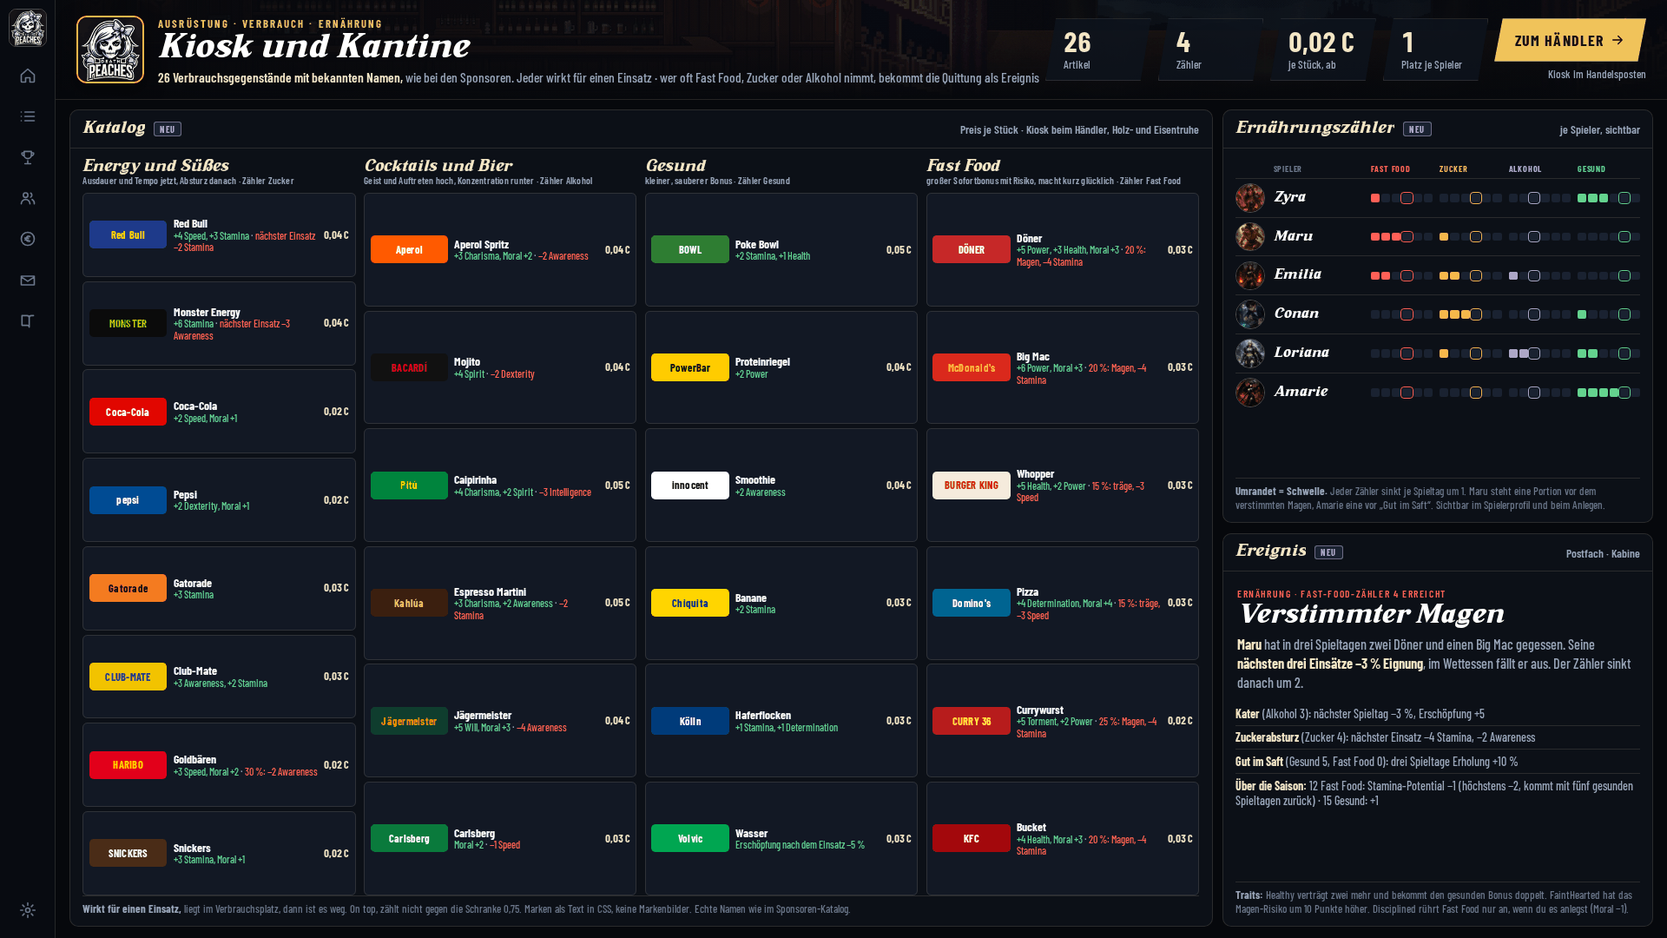
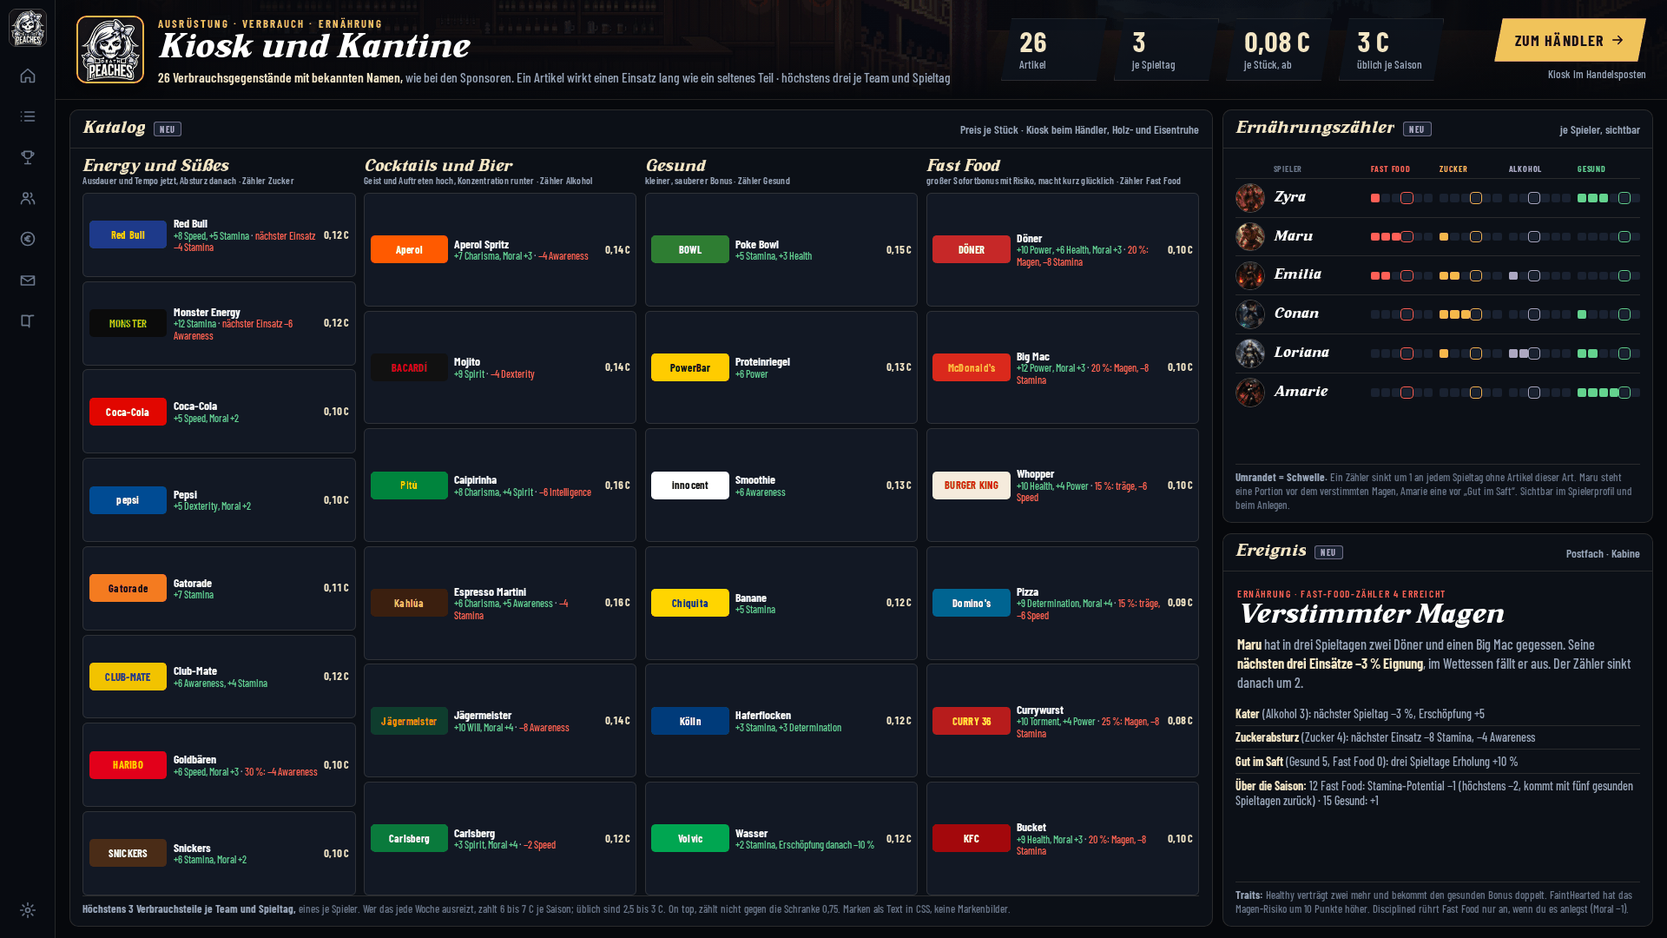
Mockups Runde 14: Verbrauch neu kalibriert (teurer, staerker), hoechstens 3 je Team und Spieltag, Zaehler-Abbau geprueft (#1691)
Claude-Session: https://claude.ai/code/session_01UYLNtXkprKr1XK4c3X2xQq

diff --git a/public/mockups/zwischen-den-spieltagen-22-11.html b/public/mockups/zwischen-den-spieltagen-22-11.html
@@ -878,23 +878,23 @@ function bauplan(){
 /* ======================= RUNDE 13 · VERBRAUCH MIT MARKEN, ERNAEHRUNG ======================= */
 /* [Logo-Text, Hintergrund, Schrift, Produkt, Wirkung, Nebenwirkung, Preis] */
 var VB=[["Energy und Süßes","Ausdauer und Tempo jetzt, Absturz danach · Zähler Zucker",[
-  ["Red Bull","#1e3a8a","#ffd200","Red Bull","+4 Speed, +3 Stamina","nächster Einsatz −2 Stamina","0,04"],["MONSTER","#0b0b0b","#7ed321","Monster Energy","+6 Stamina","nächster Einsatz −3 Awareness","0,04"],["Coca-Cola","#e10600","#fff","Coca-Cola","+2 Speed, Moral +1","–","0,02"],["pepsi","#004b93","#fff","Pepsi","+2 Dexterity, Moral +1","–","0,02"],["Gatorade","#f47b20","#111","Gatorade","+3 Stamina","–","0,03"],["CLUB-MATE","#f2c300","#1c3f94","Club-Mate","+3 Awareness, +2 Stamina","–","0,03"],["HARIBO","#e2001a","#ffd500","Goldbären","+3 Speed, Moral +2","30 %: −2 Awareness","0,02"],["SNICKERS","#4a2c17","#fff","Snickers","+3 Stamina, Moral +1","–","0,02"]]],
+  ["Red Bull","#1e3a8a","#ffd200","Red Bull","+8 Speed, +5 Stamina","nächster Einsatz −4 Stamina","0,12"],["MONSTER","#0b0b0b","#7ed321","Monster Energy","+12 Stamina","nächster Einsatz −6 Awareness","0,12"],["Coca-Cola","#e10600","#fff","Coca-Cola","+5 Speed, Moral +2","–","0,10"],["pepsi","#004b93","#fff","Pepsi","+5 Dexterity, Moral +2","–","0,10"],["Gatorade","#f47b20","#111","Gatorade","+7 Stamina","–","0,11"],["CLUB-MATE","#f2c300","#1c3f94","Club-Mate","+6 Awareness, +4 Stamina","–","0,12"],["HARIBO","#e2001a","#ffd500","Goldbären","+6 Speed, Moral +3","30 %: −4 Awareness","0,10"],["SNICKERS","#4a2c17","#fff","Snickers","+6 Stamina, Moral +2","–","0,10"]]],
  ["Cocktails und Bier","Geist und Auftreten hoch, Konzentration runter · Zähler Alkohol",[
-  ["Aperol","#ff5a00","#fff","Aperol Spritz","+3 Charisma, Moral +2","−2 Awareness","0,04"],["BACARDÍ","#111","#e2001a","Mojito","+4 Spirit","−2 Dexterity","0,04"],["Pitú","#00843d","#ffd500","Caipirinha","+4 Charisma, +2 Spirit","−3 Intelligence","0,05"],["Kahlúa","#3b1f0f","#f0c35a","Espresso Martini","+3 Charisma, +2 Awareness","−2 Stamina","0,05"],["Jägermeister","#0f3d2e","#f28c00","Jägermeister","+5 Will, Moral +3","−4 Awareness","0,04"],["Carlsberg","#0a7a3b","#fff","Carlsberg","Moral +2","−1 Speed","0,03"]]],
+  ["Aperol","#ff5a00","#fff","Aperol Spritz","+7 Charisma, Moral +3","−4 Awareness","0,14"],["BACARDÍ","#111","#e2001a","Mojito","+9 Spirit","−4 Dexterity","0,14"],["Pitú","#00843d","#ffd500","Caipirinha","+8 Charisma, +4 Spirit","−6 Intelligence","0,16"],["Kahlúa","#3b1f0f","#f0c35a","Espresso Martini","+6 Charisma, +5 Awareness","−4 Stamina","0,16"],["Jägermeister","#0f3d2e","#f28c00","Jägermeister","+10 Will, Moral +4","−8 Awareness","0,14"],["Carlsberg","#0a7a3b","#fff","Carlsberg","+3 Spirit, Moral +4","−2 Speed","0,12"]]],
  ["Gesund","kleiner, sauberer Bonus · Zähler Gesund",[
-  ["BOWL","#2e7d32","#fff","Poke Bowl","+2 Stamina, +1 Health","–","0,05"],["PowerBar","#ffcc00","#111","Proteinriegel","+2 Power","–","0,04"],["innocent","#fff","#111","Smoothie","+2 Awareness","–","0,04"],["Chiquita","#ffd500","#0033a0","Banane","+2 Stamina","–","0,03"],["Kölln","#003b7a","#fff","Haferflocken","+1 Stamina, +1 Determination","–","0,03"],["Volvic","#00a651","#fff","Wasser","Erschöpfung nach dem Einsatz −5 %","–","0,03"]]],
+  ["BOWL","#2e7d32","#fff","Poke Bowl","+5 Stamina, +3 Health","–","0,15"],["PowerBar","#ffcc00","#111","Proteinriegel","+6 Power","–","0,13"],["innocent","#fff","#111","Smoothie","+6 Awareness","–","0,13"],["Chiquita","#ffd500","#0033a0","Banane","+5 Stamina","–","0,12"],["Kölln","#003b7a","#fff","Haferflocken","+3 Stamina, +3 Determination","–","0,12"],["Volvic","#00a651","#fff","Wasser","+2 Stamina, Erschöpfung danach −10 %","–","0,12"]]],
  ["Fast Food","großer Sofortbonus mit Risiko, macht kurz glücklich · Zähler Fast Food",[
-  ["DÖNER","#c62828","#fff","Döner","+5 Power, +3 Health, Moral +3","20 %: Magen, −4 Stamina","0,03"],["McDonald's","#da291c","#ffc72c","Big Mac","+6 Power, Moral +3","20 %: Magen, −4 Stamina","0,03"],["BURGER KING","#f5ebdc","#d62300","Whopper","+5 Health, +2 Power","15 %: träge, −3 Speed","0,03"],["Domino's","#006491","#fff","Pizza","+4 Determination, Moral +4","15 %: träge, −3 Speed","0,03"],["CURRY 36","#b71c1c","#ffeb3b","Currywurst","+5 Torment, +2 Power","25 %: Magen, −4 Stamina","0,02"],["KFC","#a3080c","#fff","Bucket","+4 Health, Moral +3","20 %: Magen, −4 Stamina","0,03"]]]];
+  ["DÖNER","#c62828","#fff","Döner","+10 Power, +6 Health, Moral +3","20 %: Magen, −8 Stamina","0,10"],["McDonald's","#da291c","#ffc72c","Big Mac","+12 Power, Moral +3","20 %: Magen, −8 Stamina","0,10"],["BURGER KING","#f5ebdc","#d62300","Whopper","+10 Health, +4 Power","15 %: träge, −6 Speed","0,10"],["Domino's","#006491","#fff","Pizza","+9 Determination, Moral +4","15 %: träge, −6 Speed","0,09"],["CURRY 36","#b71c1c","#ffeb3b","Currywurst","+10 Torment, +4 Power","25 %: Magen, −8 Stamina","0,08"],["KFC","#a3080c","#fff","Bucket","+9 Health, Moral +3","20 %: Magen, −8 Stamina","0,10"]]]];
 function verbrauch(){
  var E=[["zyra","Zyra",1,0,0,3],["maru","Maru",3,1,0,0],["emilia","Emilia",2,2,1,0],["conan","Conan",0,3,0,1],["queen-loriana","Loriana",0,1,2,2],["amarie","Amarie",0,0,0,4]],FB=["var(--warn)","var(--acht)","var(--neu)","var(--gut)"],SWE=[4,4,3,5];
  function em(v,j){var h="";for(var i=0;i<6;i++)h+='<i class="'+(i<v?"an":"")+(i===SWE[j]-1?" swl":"")+'"></i>';return '<span class="em" style="--f:'+FB[j]+'">'+h+'</span>'}
- return hero({kul:[kul("wettessen","bierzelt"),kul("showcase","buehne")],kick:"Ausrüstung · Verbrauch · Ernährung",titel:"Kiosk und Kantine",lage:"<b>26 Verbrauchsgegenstände mit bekannten Namen,</b> wie bei den Sponsoren. Jeder wirkt für einen Einsatz · wer oft Fast Food, Zucker oder Alkohol nimmt, bekommt die Quittung als Ereignis",
-   kpi:[["26","Artikel"],["4","Zähler"],["0,02 C","je Stück, ab"],["1","Platz je Spieler"]],cta:["Zum Händler","Kiosk im Handelsposten",""]})
+ return hero({kul:[kul("wettessen","bierzelt"),kul("showcase","buehne")],kick:"Ausrüstung · Verbrauch · Ernährung",titel:"Kiosk und Kantine",lage:"<b>26 Verbrauchsgegenstände mit bekannten Namen,</b> wie bei den Sponsoren. Ein Artikel wirkt einen Einsatz lang wie ein seltenes Teil · höchstens drei je Team und Spieltag",
+   kpi:[["26","Artikel"],["3","je Spieltag"],["0,08 C","je Stück, ab"],["3 C","üblich je Saison"]],cta:["Zum Händler","Kiosk im Handelsposten",""]})
  +'<div class="vb">'
- +pan("","Katalog",'<div class="vk4">'+VB.map(function(k){return '<div><h4>'+k[0]+'<small>'+k[1]+'</small></h4>'+k[2].map(function(v){return '<div class="vt"><span class="lo" style="background:'+v[1]+';color:'+v[2]+'">'+v[0]+'</span><span><b>'+v[3]+'</b><span class="plus">'+v[4]+'</span>'+(v[5]!=="–"?' · <span class="minus">'+v[5]+'</span>':"")+'</span><span class="pr t">'+v[6]+' C</span></div>'}).join("")+'</div>'}).join("")+'</div><div class="fz"><b>Wirkt für einen Einsatz,</b> liegt im Verbrauchsplatz, dann ist es weg. On top, zählt nicht gegen die Schranke 0,75. Marken als Text in CSS, keine Markenbilder. Echte Namen wie im Sponsoren-Katalog.</div>','<span class="re">Preis je Stück · Kiosk beim Händler, Holz- und Eisentruhe</span>')
+ +pan("","Katalog",'<div class="vk4">'+VB.map(function(k){return '<div><h4>'+k[0]+'<small>'+k[1]+'</small></h4>'+k[2].map(function(v){return '<div class="vt"><span class="lo" style="background:'+v[1]+';color:'+v[2]+'">'+v[0]+'</span><span><b>'+v[3]+'</b><span class="plus">'+v[4]+'</span>'+(v[5]!=="–"?' · <span class="minus">'+v[5]+'</span>':"")+'</span><span class="pr t">'+v[6]+' C</span></div>'}).join("")+'</div>'}).join("")+'</div><div class="fz"><b>Höchstens 3 Verbrauchsteile je Team und Spieltag,</b> eines je Spieler. Wer das jede Woche ausreizt, zahlt 6 bis 7 C je Saison; üblich sind 2,5 bis 3 C. On top, zählt nicht gegen die Schranke 0,75. Marken als Text in CSS, keine Markenbilder.</div>','<span class="re">Preis je Stück · Kiosk beim Händler, Holz- und Eisentruhe</span>')
  +'<div style="display:grid;grid-template-rows:minmax(0,1.05fr) minmax(0,1fr);gap:.72rem;min-height:0">'
- +pan("","Ernährungszähler",'<div class="ez kopf"><span></span><span>Spieler</span><span style="color:var(--warn)">Fast Food</span><span style="color:var(--acht)">Zucker</span><span style="color:var(--neu)">Alkohol</span><span style="color:var(--gut)">Gesund</span></div>'+E.map(function(e){return '<div class="ez">'+po(e[0])+'<b>'+e[1]+'</b>'+em(e[2],0)+em(e[3],1)+em(e[4],2)+em(e[5],3)+'</div>'}).join("")+'<div class="fz"><b>Umrandet = Schwelle.</b> Jeder Zähler sinkt je Spieltag um 1. Maru steht eine Portion vor dem verstimmten Magen, Amarie eine vor „Gut im Saft“. Sichtbar im Spielerprofil und beim Anlegen.</div>','<span class="re">je Spieler, sichtbar</span>')
- +'<section class="pan"><div class="pk"><h2>Ereignis</h2><span class="neu">neu</span><span class="sp"></span><span class="re">Postfach · Kabine</span></div><div class="pfk" style="border-bottom:0"><span class="gk" style="color:var(--warn)">Ernährung · Fast-Food-Zähler 4 erreicht</span><h3>Verstimmter Magen</h3><p><b>Maru</b> hat in drei Spieltagen zwei Döner und einen Big Mac gegessen. Seine <b>nächsten drei Einsätze −3 % Eignung</b>, im Wettessen fällt er aus. Der Zähler sinkt danach um 2.</p></div><div class="pb" style="padding-top:0"><div class="lp"><b>Kater</b> (Alkohol 3): nächster Spieltag −3 %, Erschöpfung +5</div><div class="lp"><b>Zuckerabsturz</b> (Zucker 4): nächster Einsatz −4 Stamina, −2 Awareness</div><div class="lp"><b>Gut im Saft</b> (Gesund 5, Fast Food 0): drei Spieltage Erholung +10 %</div><div class="lp"><b>Über die Saison:</b> 12 Fast Food: Stamina-Potential −1 (höchstens −2, kommt mit fünf gesunden Spieltagen zurück) · 15 Gesund: +1</div><div class="fz"><b>Traits:</b> Healthy verträgt zwei mehr und bekommt den gesunden Bonus doppelt. FaintHearted hat das Magen-Risiko um 10 Punkte höher. Disciplined rührt Fast Food nur an, wenn du es anlegst (Moral −1).</div></div></section>'
+ +pan("","Ernährungszähler",'<div class="ez kopf"><span></span><span>Spieler</span><span style="color:var(--warn)">Fast Food</span><span style="color:var(--acht)">Zucker</span><span style="color:var(--neu)">Alkohol</span><span style="color:var(--gut)">Gesund</span></div>'+E.map(function(e){return '<div class="ez">'+po(e[0])+'<b>'+e[1]+'</b>'+em(e[2],0)+em(e[3],1)+em(e[4],2)+em(e[5],3)+'</div>'}).join("")+'<div class="fz"><b>Umrandet = Schwelle.</b> Ein Zähler sinkt um 1 an jedem Spieltag ohne Artikel dieser Art. Maru steht eine Portion vor dem verstimmten Magen, Amarie eine vor „Gut im Saft“. Sichtbar im Spielerprofil und beim Anlegen.</div>','<span class="re">je Spieler, sichtbar</span>')
+ +'<section class="pan"><div class="pk"><h2>Ereignis</h2><span class="neu">neu</span><span class="sp"></span><span class="re">Postfach · Kabine</span></div><div class="pfk" style="border-bottom:0"><span class="gk" style="color:var(--warn)">Ernährung · Fast-Food-Zähler 4 erreicht</span><h3>Verstimmter Magen</h3><p><b>Maru</b> hat in drei Spieltagen zwei Döner und einen Big Mac gegessen. Seine <b>nächsten drei Einsätze −3 % Eignung</b>, im Wettessen fällt er aus. Der Zähler sinkt danach um 2.</p></div><div class="pb" style="padding-top:0"><div class="lp"><b>Kater</b> (Alkohol 3): nächster Spieltag −3 %, Erschöpfung +5</div><div class="lp"><b>Zuckerabsturz</b> (Zucker 4): nächster Einsatz −8 Stamina, −4 Awareness</div><div class="lp"><b>Gut im Saft</b> (Gesund 5, Fast Food 0): drei Spieltage Erholung +10 %</div><div class="lp"><b>Über die Saison:</b> 12 Fast Food: Stamina-Potential −1 (höchstens −2, kommt mit fünf gesunden Spieltagen zurück) · 15 Gesund: +1</div><div class="fz"><b>Traits:</b> Healthy verträgt zwei mehr und bekommt den gesunden Bonus doppelt. FaintHearted hat das Magen-Risiko um 10 Punkte höher. Disciplined rührt Fast Food nur an, wenn du es anlegst (Moral −1).</div></div></section>'
  +'</div></div>'}
 
 /* ======================= RUNDE 13 · TIEFE-REITER IN DER TEAM-ANSICHT ======================= */

diff --git a/docs/design/zwischen-den-spieltagen-22-11.md b/docs/design/zwischen-den-spieltagen-22-11.md
@@ -2071,64 +2071,84 @@ Spieltagen.
 
 ## 72. Verbrauchsgegenstände mit bekannten Namen
 
+*Fassung nach Runde 14 (Chris, 22.11.: „ein bisschen teurer, aber auch ein bisschen mehr Auswirkung, damit das sinnvoll
+ist und man das nicht jedes Mal zuspammt“). Ersetzt die erste Tabelle aus Runde 13.*
+
 Wie der Sponsoren-Katalog (`lib/sponsor/sponsor-brand-catalog.ts`) nutzt der Kiosk echte Namen. Jeder Artikel wirkt für
-**einen Einsatz**, liegt im Verbrauchsplatz des Spielers (einer je Spieler) und ist danach weg. Im Lager stapeln sie wie
-Materialien (bis 10 je Platz). Preise folgen dem Gegenwert (§48): ein Einsatz mit kleinem Bonus ist 0,02 bis 0,05 C wert.
+**einen Einsatz**, liegt im Verbrauchsplatz des Spielers und ist danach weg. Im Lager stapeln sie wie Materialien (bis 10
+je Platz).
+
+**Kalibrierung.** Ein Verbrauchsteil bringt in seinem Einsatz etwa so viel wie ein seltenes Ausrüstungsteil (zwei Affixe,
+zusammen rund +8 Attributpunkte), nur einmalig. Gesundes liegt etwas darunter und hat keinen Haken, Fast Food liegt darüber
+und trägt ein Risiko.
 
 | Kategorie | Artikel | Wirkung für einen Einsatz | Nebenwirkung | Preis | Zähler |
 |---|---|---|---|---:|---|
-| **Energy und Süßes** | Red Bull | +4 Speed, +3 Stamina | nächster Einsatz −2 Stamina | 0,04 C | Zucker +1 |
-| | Monster Energy | +6 Stamina | nächster Einsatz −3 Awareness | 0,04 C | Zucker +2 |
-| | Coca-Cola | +2 Speed, Moral +1 | – | 0,02 C | Zucker +1 |
-| | Pepsi | +2 Dexterity, Moral +1 | – | 0,02 C | Zucker +1 |
-| | Gatorade | +3 Stamina | – | 0,03 C | Zucker +1 |
-| | Club-Mate | +3 Awareness, +2 Stamina | – | 0,03 C | Zucker +1 |
-| | Haribo Goldbären | +3 Speed, Moral +2 | 30 %: −2 Awareness | 0,02 C | Zucker +2 |
-| | Snickers | +3 Stamina, Moral +1 | – | 0,02 C | Zucker +1 |
-| **Cocktails und Bier** | Aperol Spritz | +3 Charisma, Moral +2 | −2 Awareness | 0,04 C | Alkohol +1 |
-| | Mojito (Bacardí) | +4 Spirit | −2 Dexterity | 0,04 C | Alkohol +1 |
-| | Caipirinha (Pitú) | +4 Charisma, +2 Spirit | −3 Intelligence | 0,05 C | Alkohol +2 |
-| | Espresso Martini (Kahlúa) | +3 Charisma, +2 Awareness | −2 Stamina | 0,05 C | Alkohol +1 |
-| | Jägermeister | +5 Will, Moral +3 | −4 Awareness | 0,04 C | Alkohol +2 |
-| | Carlsberg | Moral +2 | −1 Speed | 0,03 C | Alkohol +1 |
-| **Gesund** | Poke Bowl | +2 Stamina, +1 Health | – | 0,05 C | Gesund +1 |
-| | Proteinriegel (PowerBar) | +2 Power | – | 0,04 C | Gesund +1 |
-| | Smoothie (innocent) | +2 Awareness | – | 0,04 C | Gesund +1 |
-| | Banane (Chiquita) | +2 Stamina | – | 0,03 C | Gesund +1 |
-| | Haferflocken (Kölln) | +1 Stamina, +1 Determination | – | 0,03 C | Gesund +1 |
-| | Wasser (Volvic) | Erschöpfung nach dem Einsatz −5 % | – | 0,03 C | Gesund +1 |
-| **Fast Food** | Döner | +5 Power, +3 Health, Moral +3 | 20 %: Magen, −4 Stamina in diesem Einsatz | 0,03 C | Fast Food +2 |
-| | Big Mac (McDonald's) | +6 Power, Moral +3 | 20 %: Magen, −4 Stamina | 0,03 C | Fast Food +2 |
-| | Whopper (Burger King) | +5 Health, +2 Power | 15 %: träge, −3 Speed | 0,03 C | Fast Food +2 |
-| | Pizza (Domino's) | +4 Determination, Moral +4 | 15 %: träge, −3 Speed | 0,03 C | Fast Food +2 |
-| | Currywurst | +5 Torment, +2 Power | 25 %: Magen, −4 Stamina | 0,02 C | Fast Food +2 |
-| | Bucket (KFC) | +4 Health, Moral +3 | 20 %: Magen, −4 Stamina | 0,03 C | Fast Food +2 |
+| **Energy und Süßes** | Red Bull | +8 Speed, +5 Stamina | nächster Einsatz −4 Stamina | 0,12 C | Zucker +1 |
+| | Monster Energy | +12 Stamina | nächster Einsatz −6 Awareness | 0,12 C | Zucker +2 |
+| | Coca-Cola | +5 Speed, Moral +2 | – | 0,10 C | Zucker +1 |
+| | Pepsi | +5 Dexterity, Moral +2 | – | 0,10 C | Zucker +1 |
+| | Gatorade | +7 Stamina | – | 0,11 C | Zucker +1 |
+| | Club-Mate | +6 Awareness, +4 Stamina | – | 0,12 C | Zucker +1 |
+| | Haribo Goldbären | +6 Speed, Moral +3 | 30 %: −4 Awareness | 0,10 C | Zucker +2 |
+| | Snickers | +6 Stamina, Moral +2 | – | 0,10 C | Zucker +1 |
+| **Cocktails und Bier** | Aperol Spritz | +7 Charisma, Moral +3 | −4 Awareness | 0,14 C | Alkohol +1 |
+| | Mojito (Bacardí) | +9 Spirit | −4 Dexterity | 0,14 C | Alkohol +1 |
+| | Caipirinha (Pitú) | +8 Charisma, +4 Spirit | −6 Intelligence | 0,16 C | Alkohol +2 |
+| | Espresso Martini (Kahlúa) | +6 Charisma, +5 Awareness | −4 Stamina | 0,16 C | Alkohol +1 |
+| | Jägermeister | +10 Will, Moral +4 | −8 Awareness | 0,14 C | Alkohol +2 |
+| | Carlsberg | +3 Spirit, Moral +4 | −2 Speed | 0,12 C | Alkohol +1 |
+| **Gesund** | Poke Bowl | +5 Stamina, +3 Health | – | 0,15 C | Gesund +1 |
+| | Proteinriegel (PowerBar) | +6 Power | – | 0,13 C | Gesund +1 |
+| | Smoothie (innocent) | +6 Awareness | – | 0,13 C | Gesund +1 |
+| | Banane (Chiquita) | +5 Stamina | – | 0,12 C | Gesund +1 |
+| | Haferflocken (Kölln) | +3 Stamina, +3 Determination | – | 0,12 C | Gesund +1 |
+| | Wasser (Volvic) | +2 Stamina, Erschöpfung nach dem Einsatz −10 % | – | 0,12 C | Gesund +1 |
+| **Fast Food** | Döner | +10 Power, +6 Health, Moral +3 | 20 %: Magen, −8 Stamina in diesem Einsatz | 0,10 C | Fast Food +2 |
+| | Big Mac (McDonald's) | +12 Power, Moral +3 | 20 %: Magen, −8 Stamina | 0,10 C | Fast Food +2 |
+| | Whopper (Burger King) | +10 Health, +4 Power | 15 %: träge, −6 Speed | 0,10 C | Fast Food +2 |
+| | Pizza (Domino's) | +9 Determination, Moral +4 | 15 %: träge, −6 Speed | 0,09 C | Fast Food +2 |
+| | Currywurst | +10 Torment, +4 Power | 25 %: Magen, −8 Stamina | 0,08 C | Fast Food +2 |
+| | Bucket (KFC) | +9 Health, Moral +3 | 20 %: Magen, −8 Stamina | 0,10 C | Fast Food +2 |
 
-- **Charakter der Kategorien:** Energy gibt Ausdauer und Tempo jetzt und nimmt beim nächsten Einsatz etwas zurück.
-  Cocktails heben Auftreten und Geist und kosten Konzentration, sie passen in SOC-Disziplinen. Gesund ist klein und ohne
-  Haken, dafür am teuersten. Fast Food ist billig, stark, macht kurz glücklich und trägt ein Risiko.
-- **Woher:** Kiosk beim Händler (mit Handelsposten immer offen), Holz- und Eisentruhe als Standard-Funde, Sponsor-Paket
-  (wer einen Getränke-Sponsor hat, bekommt dessen Artikel je Spieltag geschenkt, sofern der Sponsoren-Katalog die Marke
-  führt).
-- **Kosten im Blick:** wer jeden Verbrauchsplatz in jedem Einsatz füllt, zahlt rund 8 C je Saison (220 Einsätze × 0,035 C);
-  üblich sind 1 bis 2 C.
-- **KI-Regel:** Verbrauch nur in Derbys und in Duellen, die laut Vorschau eng sind. Stammspieler von Teams mit Finanzwert
-  ab 6 bekommen dauerhaft Gesundes. Fast Food nur, wenn die Moral des Spielers unter 40 liegt und sein Zähler höchstens 1
-  ist. Nie ein Artikel, der einen Zähler auf die Schwelle hebt. Cocktails nur in SOC-Disziplinen.
-- **Rechtlicher Hinweis:** echte Markennamen sind im privaten Spiel wie bei den Sponsoren unkritisch; im Mockup sind die
-  Logos Text in CSS, es gibt keine Markenbilder und es wird nichts bei PixelLab bestellt.
+**Warum diese Preise.** Der reine Gegenwert eines solchen Einsatzes wäre nach §48 rund 0,02 C. Der Kiosk verlangt das
+Fünf- bis Sechsfache, weil man den Moment wählt (genau das enge Duell), weil nichts verschleißt und kein Ausrüstungsplatz
+gebunden wird. Fast Food ist am billigsten, weil es das Risiko und den schnellsten Zähler trägt; Cocktails und Gesundes
+sind am teuersten, die einen wegen der hohen Einzelwerte in SOC-Disziplinen, die anderen, weil sie nichts kosten außer
+Geld.
+
+**Leitplanke gegen Zuspammen: höchstens 3 Verbrauchsteile je Team und Spieltag,** und höchstens eines je Spieler und
+Spieltag. Gewählt statt steigender Kosten, weil die Grenze für alle gleich ist (steigende Kosten bremsen nur arme Teams),
+weil man sie ohne Rechnen versteht und weil die KI dafür keine Preisabwägung braucht. Die Einsatzliste zeigt „2 von 3“.
+
+**Kosten.**
+- Höchstmaß, jede Woche alle drei: 60 Teile je Saison, je nach Mischung **6 bis 7 C** (mit Fast Food 5,7 C, mit Cocktails
+  8,6 C). Das liegt am oberen Rand des Ziels; wer das tut, läuft außerdem ständig in die Zähler-Ereignisse.
+- Üblich, ein Teil in engen Duellen und zwei bis drei in Derbys: 20 bis 25 Teile, **2,5 bis 3 C je Saison**.
+
+**Woher:** Kiosk beim Händler (mit Handelsposten immer offen), Holz- und Eisentruhe als Standard-Funde, Sponsor-Paket (wer
+einen Getränke-Sponsor hat, bekommt dessen Artikel geschenkt, sofern der Sponsoren-Katalog die Marke führt; offen).
+
+**KI-Regel:** nur, wenn die Vorschau ein Duell als knapp ausweist (Abstand unter 5 %) oder im Derby, und nie mehr als
+drei. Reihenfolge: der aufgestellte Spieler, bei dem `Bonus × Matrixgewicht` am größten ist. Nie ein Artikel, der einen
+Zähler auf die Schwelle hebt. Fast Food nur bei Moral unter 40 und Zähler höchstens 1. Cocktails nur in SOC-Disziplinen.
+Finanzwert unter 4: höchstens ein Teil je Spieltag. Steht kein enges Duell an und liegt der Finanzwert ab 6, geht ein Platz
+an etwas Gesundes für den müdesten Stammspieler.
+
+**Hinweis:** im Mockup sind die Logos Text in CSS, es gibt keine Markenbilder und es wird nichts bei PixelLab bestellt.
 
 ## 73. Ernährung mit Langzeitwirkung
 
-- **Vier Zähler je Spieler:** Fast Food, Zucker, Alkohol, Gesund. Jeder Artikel hebt seinen Zähler um 1 oder 2; jeder
-  Zähler sinkt je Spieltag um 1. Sichtbar im Spielerprofil und beim Anlegen, mit markierter Schwelle („noch eine Portion
+- **Vier Zähler je Spieler:** Fast Food, Zucker, Alkohol, Gesund. Jeder Artikel hebt seinen Zähler um 1 oder 2; ein
+  Zähler sinkt um 1 an jedem Spieltag, an dem der Spieler nichts aus dieser Kategorie nimmt (geändert in Runde 14, sonst
+  bliebe tägliches Cola-Trinken folgenlos). Sichtbar im Spielerprofil und beim Anlegen, mit markierter Schwelle („noch eine Portion
   bis zum verstimmten Magen“). Nichts ist verborgen.
 - **Schwellen lösen Ereignisse aus** (Nachricht im Postfach, bei Alkohol auch in der Kabine):
 
 | Ereignis | Auslöser | Wirkung |
 |---|---|---|
 | Verstimmter Magen | Fast Food 4 | die nächsten drei Einsätze −3 % Eignung, im Wettessen nicht einsetzbar; Zähler −2 |
-| Zuckerabsturz | Zucker 4 | nächster Einsatz −4 Stamina, −2 Awareness; Zähler −2 |
+| Zuckerabsturz | Zucker 4 | nächster Einsatz −8 Stamina, −4 Awareness; Zähler −2 |
 | Kater | Alkohol 3 | nächster Spieltag −3 % Eignung, Erschöpfung +5; ab Alkohol 5 sinkt das Vertrauen des Vorstands um 0,25 |
 | Gut im Saft | Gesund 5 und Fast Food 0 | drei Spieltage Erholung +10 %, Verletzungsrisiko −10 % |
 
@@ -2148,3 +2168,20 @@ Materialien (bis 10 je Platz). Preise folgen dem Gegenwert (§48): ein Einsatz m
 
 **Offen:** Sollen Getränke-Sponsoren ihre Artikel je Spieltag schenken (kleiner Vorteil, hübsche Verbindung), oder bleibt
 der Kiosk rein käuflich?
+
+## 74. Runde 14: Zähler geprüft
+
+Mit höchstens einem Artikel je Spieler und Spieltag und der neuen Abbauregel (ein Zähler sinkt nur an Spieltagen ohne
+Artikel dieser Art):
+
+| Dauer-Einsatz | Ereignis nach |
+|---|---|
+| jeden Spieltag Fast Food (+2) | 2 Spieltagen: verstimmter Magen, danach jeden zweiten Spieltag wieder |
+| jeden Spieltag Cola oder Gatorade (+1) | 4 Spieltagen: Zuckerabsturz |
+| jeden Spieltag Monster oder Haribo (+2) | 2 Spieltagen |
+| jeden Spieltag ein Cocktail (+1) | 3 Spieltagen: Kater; mit Caipirinha oder Jägermeister (+2) nach 2 |
+| jeden Spieltag Gesundes (+1) | 5 Spieltagen: „Gut im Saft“ (gewollt) |
+
+Dauer-Einsatz wird also in jeder ungesunden Kategorie bestraft. Mit der alten Regel (jeder Zähler sinkt je Spieltag um 1)
+wäre ein täglicher Artikel mit +1 nie an die Schwelle gekommen. Die Saison-Schwellen aus §73 (12 und 20 Fast-Food-Punkte)
+bleiben; bei einem Fast Food je Woche sind das sechs bzw. zehn Portionen eines Spielers.
